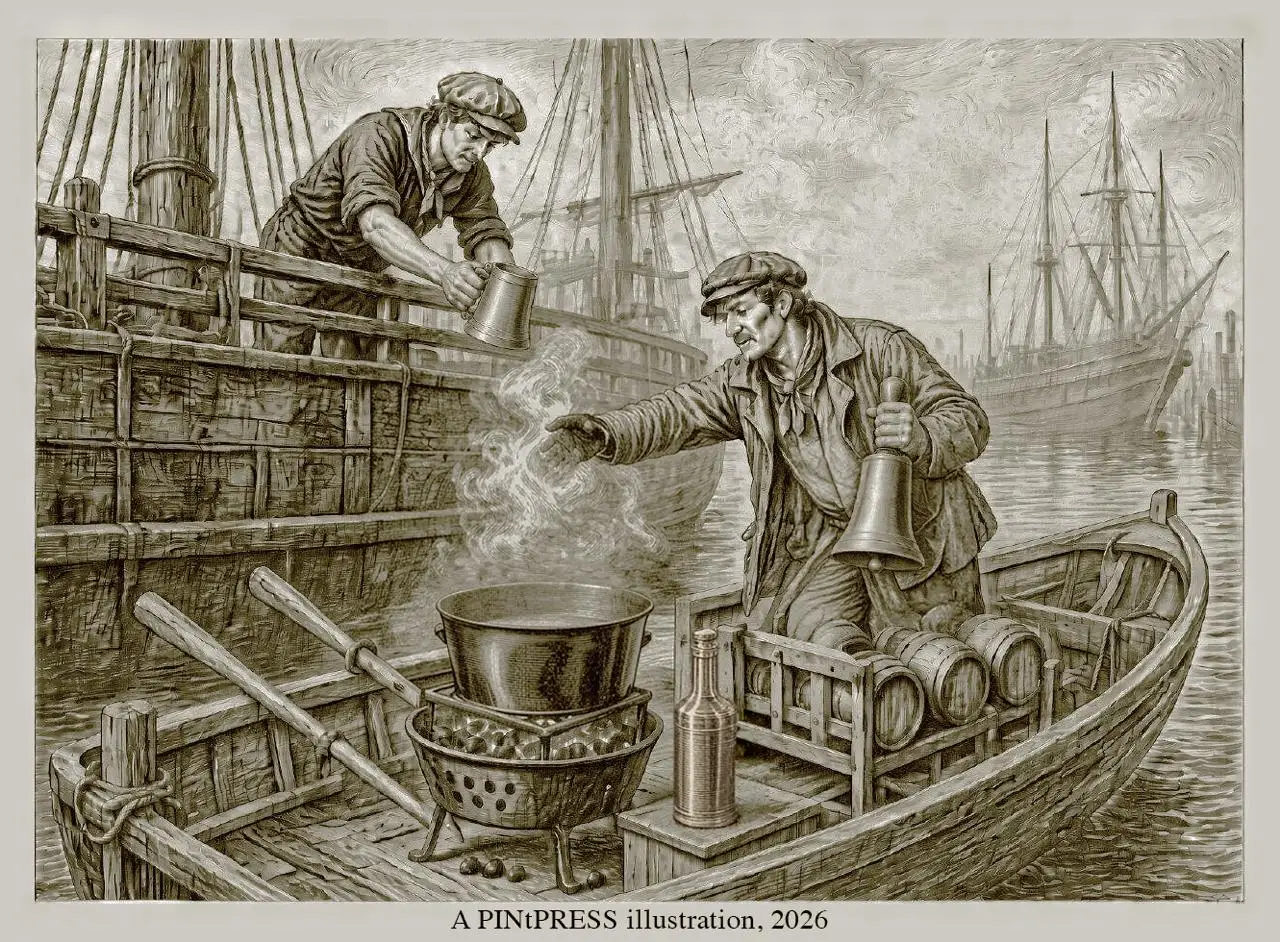
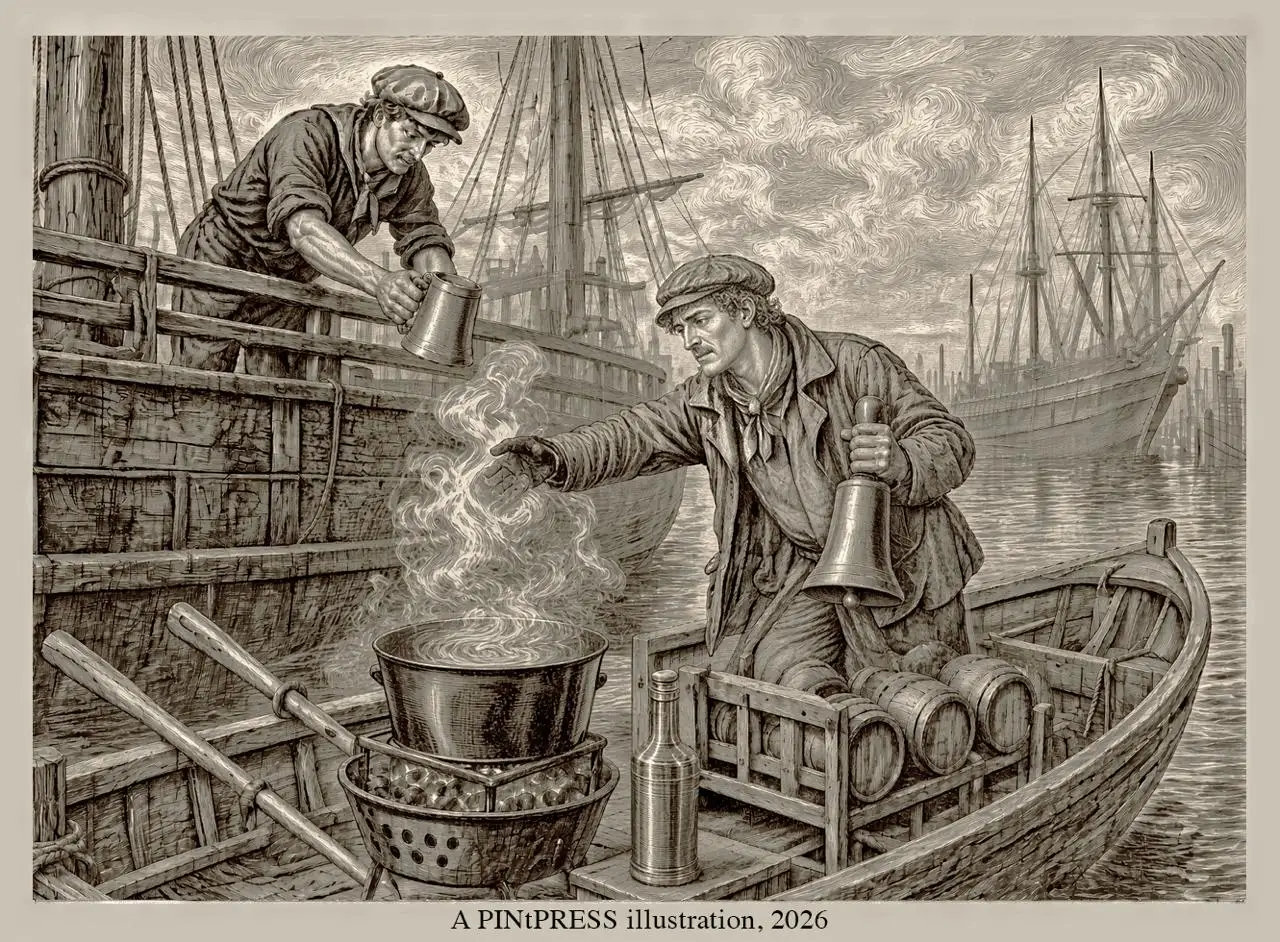
Purl: a younger purl-man, and the plate toned to the paper
Mayhew is explicit that the trade had passed to young men off the
river. The first plate gave us a weathered old tar, which argued with
the paragraph beneath it. This one reads early thirties, the steam
carries further, and the sepia is pulled warm so the plate sits in the
page's own stock rather than on it.

Alt text follows the drawing: the tin bottle now stands on the boards.

diff --git a/blog/drafts/hot-beer.html b/blog/drafts/hot-beer.html
@@ -78,7 +78,7 @@
       <a href="https://pintpoint.co.uk/blog/images/hot-beer-purl-man-illustration.jpg" target="_blank" rel="noopener noreferrer">
         <picture>
           <source type="image/webp" srcset="https://pintpoint.co.uk/blog/images/hot-beer-purl-man-illustration.webp" />
-          <img src="https://pintpoint.co.uk/blog/images/hot-beer-purl-man-illustration.jpg" alt="A modern illustration drawn in the manner of a Victorian wood engraving. A young purl-man leans out of his skiff with his oars resting across it, a large hand bell in one hand, small casks on a frame across the stern behind him, a black pot steaming on a fire pan drilled with holes, and a long-necked tin bottle standing on a box beside it. A sailor leans over the side of a collier above him with a tankard. A line printed beneath the plate reads A PINtPRESS illustration, 2026." width="1280" height="942" loading="lazy" />
+          <img src="https://pintpoint.co.uk/blog/images/hot-beer-purl-man-illustration.jpg" alt="A modern illustration drawn in the manner of a Victorian wood engraving. A young purl-man leans out of his skiff with his oars resting across it, a large hand bell in one hand, small casks on a frame across the stern behind him, a black pot steaming on a fire pan drilled with holes, and a long-necked tin bottle standing on the boards beside it. A sailor leans over the side of a collier above him with a tankard. A line printed beneath the plate reads A PINtPRESS illustration, 2026." width="1280" height="942" loading="lazy" />
         </picture>
       </a>
       <figcaption>Based on Mayhew&rsquo;s description of the purl-man.</figcaption>

diff --git a/r/purl/index.html b/r/purl/index.html
@@ -82,7 +82,7 @@
       <a href="https://pintpoint.co.uk/blog/images/hot-beer-purl-man-illustration.jpg" target="_blank" rel="noopener noreferrer">
         <picture>
           <source type="image/webp" srcset="https://pintpoint.co.uk/blog/images/hot-beer-purl-man-illustration.webp" />
-          <img src="https://pintpoint.co.uk/blog/images/hot-beer-purl-man-illustration.jpg" alt="A modern illustration drawn in the manner of a Victorian wood engraving. A young purl-man leans out of his skiff with his oars resting across it, a large hand bell in one hand, small casks on a frame across the stern behind him, a black pot steaming on a fire pan drilled with holes, and a long-necked tin bottle standing on a box beside it. A sailor leans over the side of a collier above him with a tankard. A line printed beneath the plate reads A PINtPRESS illustration, 2026." width="1280" height="942" loading="lazy" />
+          <img src="https://pintpoint.co.uk/blog/images/hot-beer-purl-man-illustration.jpg" alt="A modern illustration drawn in the manner of a Victorian wood engraving. A young purl-man leans out of his skiff with his oars resting across it, a large hand bell in one hand, small casks on a frame across the stern behind him, a black pot steaming on a fire pan drilled with holes, and a long-necked tin bottle standing on the boards beside it. A sailor leans over the side of a collier above him with a tankard. A line printed beneath the plate reads A PINtPRESS illustration, 2026." width="1280" height="942" loading="lazy" />
         </picture>
       </a>
       <figcaption>Based on Mayhew&rsquo;s description of the purl-man.</figcaption>
